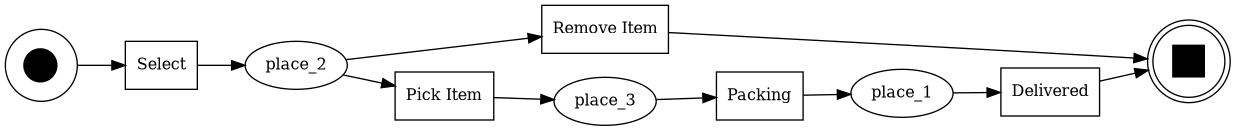
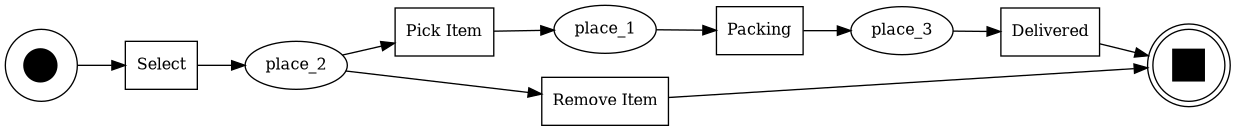
Quick fix spec.json

diff --git a/simulation/run_simulation.py b/simulation/run_simulation.py
@@ -105,11 +105,4 @@ if __name__ == "__main__":
 
     json_path = json_files[0]
     
-    #Logic to import specifications.yml 
-    # json_files = list(experiment_dir.glob("*.json"))
-    # if len(json_files) != 1:
-    #     raise ValueError(f"Expected exactly one JSON file in {experiment_dir}, found {len(json_files)}")
-
-    # json_path = json_files[0]
-
     main(path_parameter=str(json_path), name=args.experiment_name, type_log=args.type_log)